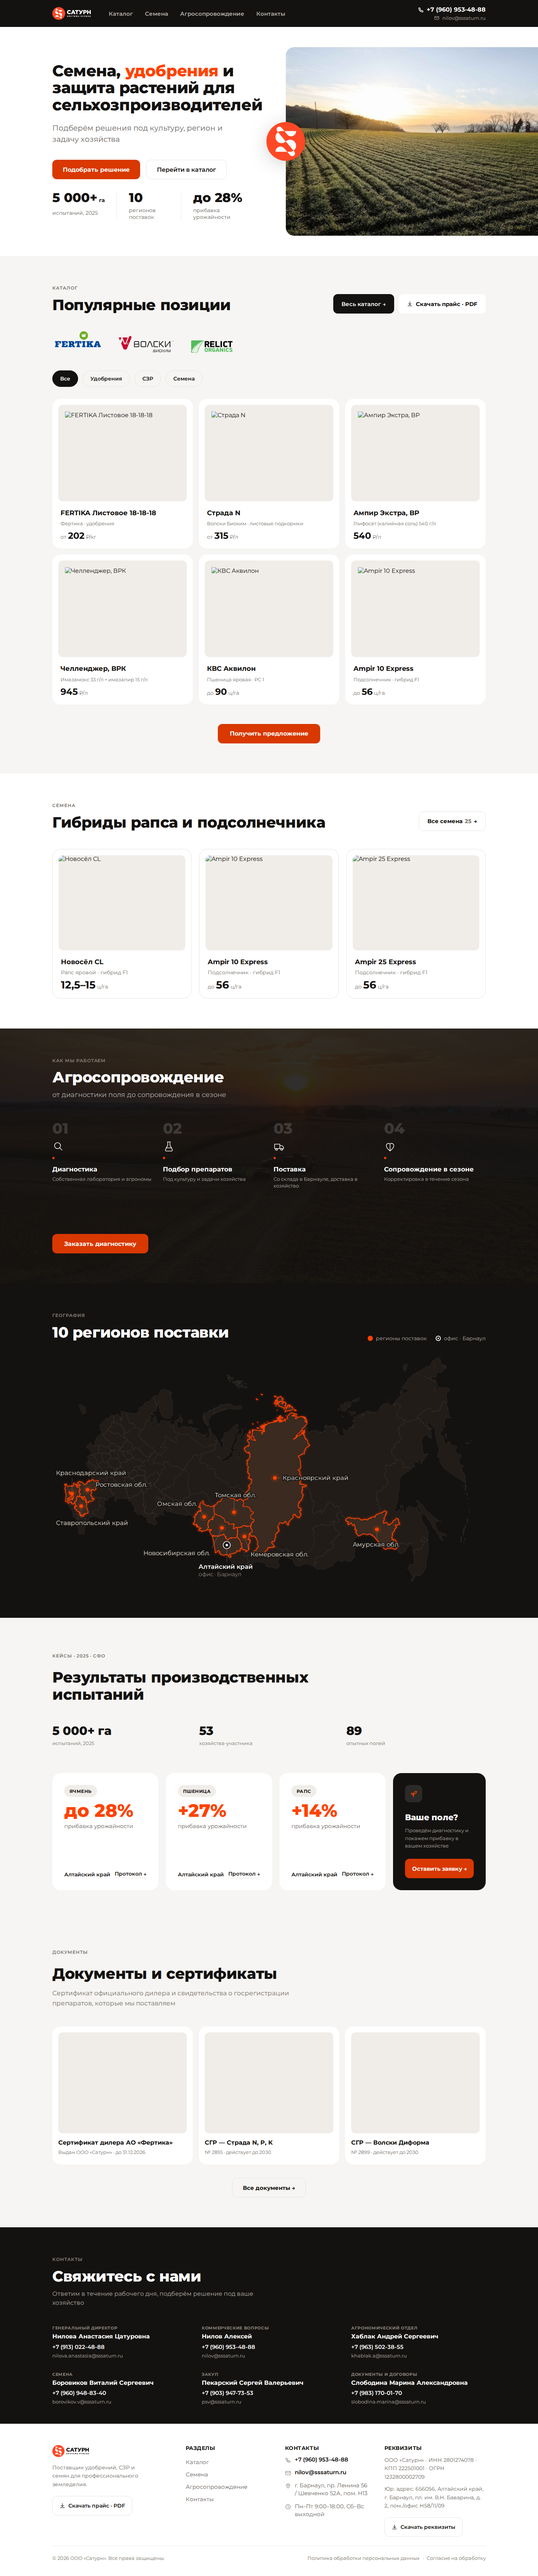
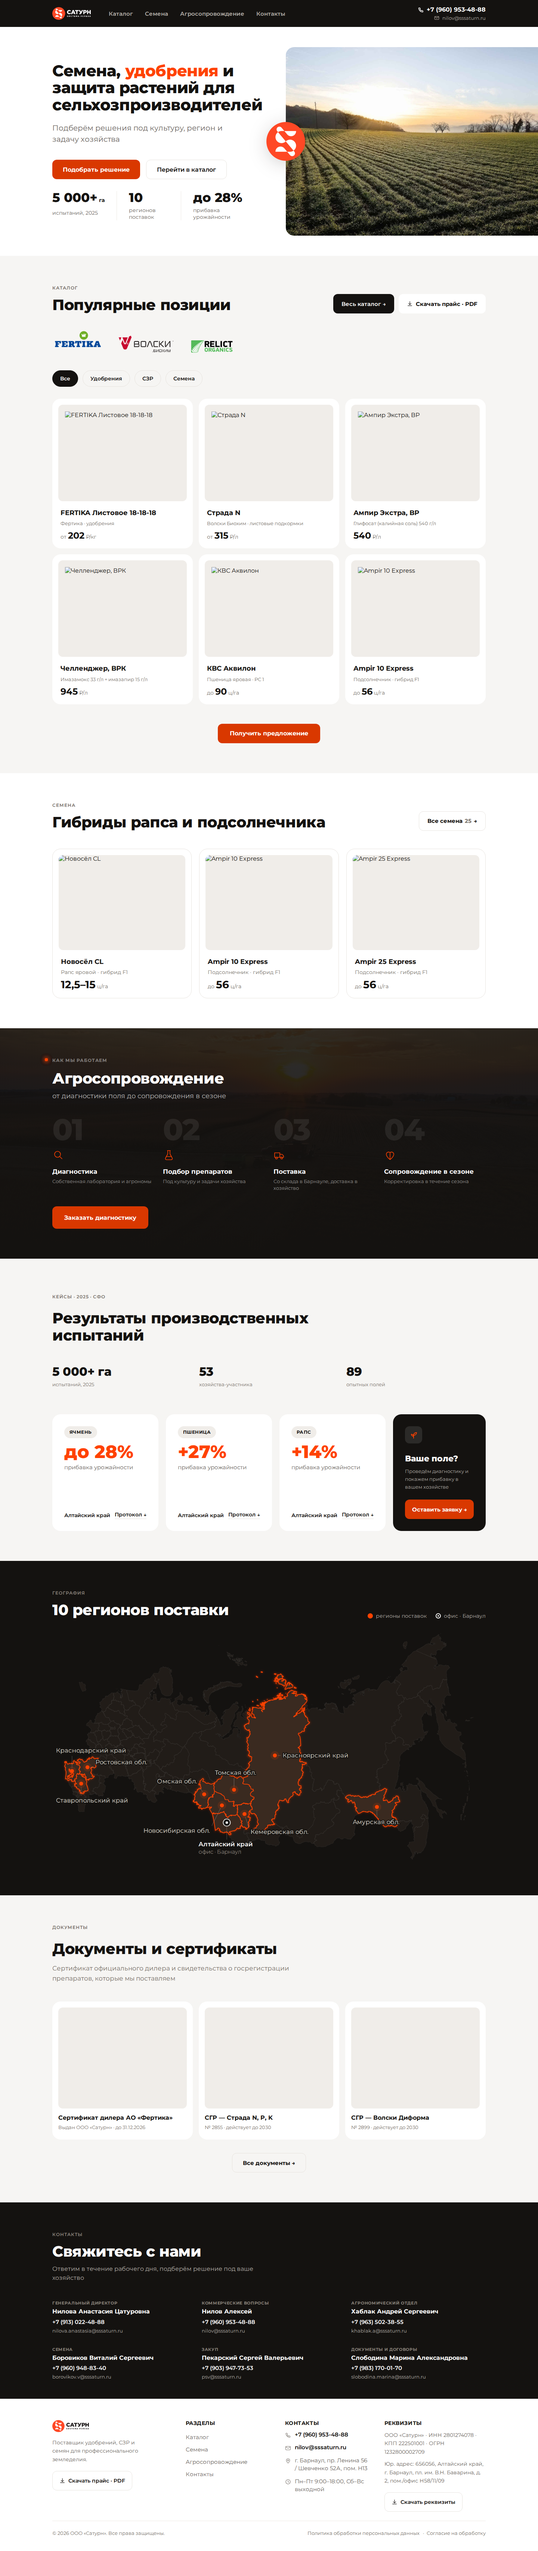
стенд собирал страницу не в том порядке — исправлено, эталоны пересняты
В tools/render/build.sh «География» стояла перед «Результатами», а на
живом сайте, на утверждённом холсте ПК и в docs/GLAVNAYA.md порядок
обратный. То есть локальный стенд полгода показывал не ту страницу,
что на сайте, и эталонные рендеры тоже. На линтеры это не влияло —
они меряют каждую секцию отдельно, — но глазами сверять было не с чем.

Порядок теперь один и живёт в build.sh. Сборку эталонов перенёс из
/tmp в репозиторий: tools/render/etalon.js. Рендеры пересняты на всех
восьми ширинах, переполнения нет нигде.

Заодно tools/audit/live.js — снимок живой страницы прямо из контейнера.
В CLAUDE.md записано, что браузер до sssaturn.ru не достучится из-за
сертификата прокси; это неверно, достукивается через ignoreHTTPSErrors
у контекста. Живую главную больше не нужно ждать от агента.

Claude-Session: https://claude.ai/code/session_01EC7GkqEroA7jb7aag7wrsC

diff --git a/tools/audit/live.js b/tools/audit/live.js
@@ -1,0 +1,42 @@
+#!/usr/bin/env node
+// Снимок живой страницы sssaturn.ru из контейнера.
+//
+//   node tools/audit/live.js https://sssaturn.ru/home 1440 /tmp/home-1440.png
+//
+// Контейнер ходит наружу через прокси с собственным сертификатом, поэтому
+// Chromium ругается на TLS. Лечится не отключением проверки на уровне
+// системы, а ignoreHTTPSErrors у контекста: это касается только этого
+// браузера и только на время снимка.
+//
+// Раньше в CLAUDE.md было записано, что браузер до sssaturn.ru не достучится
+// и живой визуальный контроль — работа агента. Это неверно: достукивается.
+const { chromium } = require('/opt/node22/lib/node_modules/playwright');
+
+const [url, width = '1440', out = '/tmp/live.png'] = process.argv.slice(2);
+if (!url) {
+  console.error('нужен адрес: node tools/audit/live.js <url> [ширина] [файл]');
+  process.exit(1);
+}
+
+(async () => {
+  const b = await chromium.launch();
+  const ctx = await b.newContext({
+    ignoreHTTPSErrors: true,
+    viewport: { width: Number(width), height: 900 },
+  });
+  const p = await ctx.newPage();
+  const r = await p.goto(url, { waitUntil: 'networkidle', timeout: 60000 });
+  await p.waitForTimeout(4000);
+
+  const m = await p.evaluate(() => ({
+    height: document.body.scrollHeight,
+    overflow: document.documentElement.scrollWidth - document.documentElement.clientWidth,
+    title: document.title,
+  }));
+  console.log(`${r.status()} · ${url} · ${width}px · высота ${m.height} · переполнение ${m.overflow}`);
+  console.log(`title: ${m.title}`);
+
+  await p.screenshot({ path: out, fullPage: true });
+  console.log('снимок:', out);
+  await b.close();
+})();

diff --git a/tools/render/etalon.js b/tools/render/etalon.js
@@ -1,0 +1,42 @@
+#!/usr/bin/env node
+// Пересобирает эталонные рендеры главной в design/etalon/.
+//
+//   bash tools/render/build.sh          # сначала собрать страницу
+//   node tools/render/etalon.js         # потом снять её на всех ширинах
+//
+// Раньше порядок блоков для эталона задавался руками в /tmp — и разошёлся
+// с настоящей страницей: «География» и «Результаты» стояли наоборот.
+// Теперь порядок один и тот же, он живёт в tools/render/build.sh.
+const { chromium } = require('/opt/node22/lib/node_modules/playwright');
+const path = require('path');
+
+const SHIRINY = [
+  [1920, 'glavnaya-pk-1920.png'],
+  [1440, 'glavnaya-pk-1440.png'],
+  [1280, 'glavnaya-noutbuk-1280.png'],
+  [1024, 'glavnaya-planshet-gorizont-1024.png'],
+  [768, 'glavnaya-planshet-768.png'],
+  [430, 'glavnaya-telefon-430.png'],
+  [390, 'glavnaya-telefon-390.png'],
+  [320, 'glavnaya-telefon-320.png'],
+];
+
+const ISTOCHNIK = process.argv[2] || '/tmp/blk/t2.html';
+const KUDA = path.join(__dirname, '..', '..', 'design', 'etalon');
+
+(async () => {
+  const b = await chromium.launch();
+  for (const [w, file] of SHIRINY) {
+    const p = await b.newPage({ viewport: { width: w, height: 900 } });
+    await p.goto('file://' + ISTOCHNIK);
+    await p.waitForTimeout(2500);
+    const m = await p.evaluate(() => ({
+      h: document.body.scrollHeight,
+      o: document.documentElement.scrollWidth - document.documentElement.clientWidth,
+    }));
+    await p.screenshot({ path: path.join(KUDA, file), fullPage: true });
+    console.log(`${String(w).padStart(4)}px · высота ${m.h} · переполнение ${m.o} · ${file}`);
+    await p.close();
+  }
+  await b.close();
+})();

diff --git a/design/etalon/README.md b/design/etalon/README.md
@@ -17,10 +17,17 @@
 Пересобрать:
 
 ```
-cd /tmp/blk && bash mk2.sh /home/user/saturn/design/blocks/{shapka,geroy,\
-populyarnye,semena,agro,geografiya,rezultaty,dokumenty,kontakty,podval}.html
-node etalon.js
+cd /home/user/saturn
+bash tools/render/build.sh      # собрать страницу из блоков
+node tools/render/etalon.js     # снять её на всех восьми ширинах
 ```
 
-Высота страницы: 6885 на ПК, 7401 на планшете, 8432 на телефоне.
-Горизонтальной прокрутки нет ни на одной ширине, стыки секций — ноль.
+Порядок блоков задан один раз, в `tools/render/build.sh`. Раньше для
+эталона он набирался руками и разошёлся с настоящей страницей:
+«География» и «Результаты» стояли наоборот. Исправлено 03.10.2026,
+рендеры пересняты.
+
+Высота страницы: 6820 на ПК (1280…1920), 6522 на 1024, 7401 на 768,
+8432 на 390, 8575 на 320. Горизонтальной прокрутки нет ни на одной
+ширине. Живая главная до выкладки правок — 8262 на 1440; после
+выкладки должна стать 6820, это и есть числовая приёмка.
